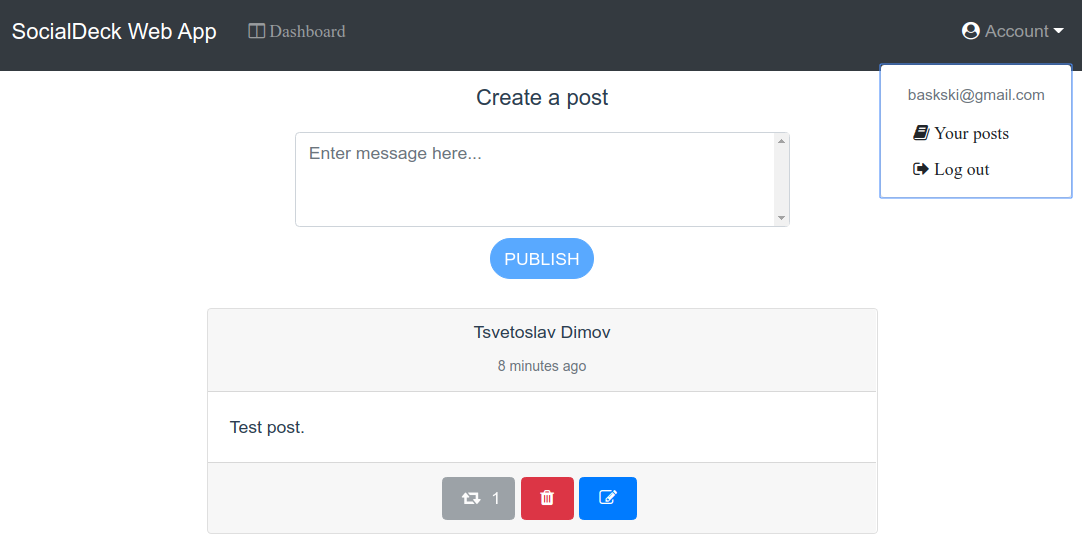
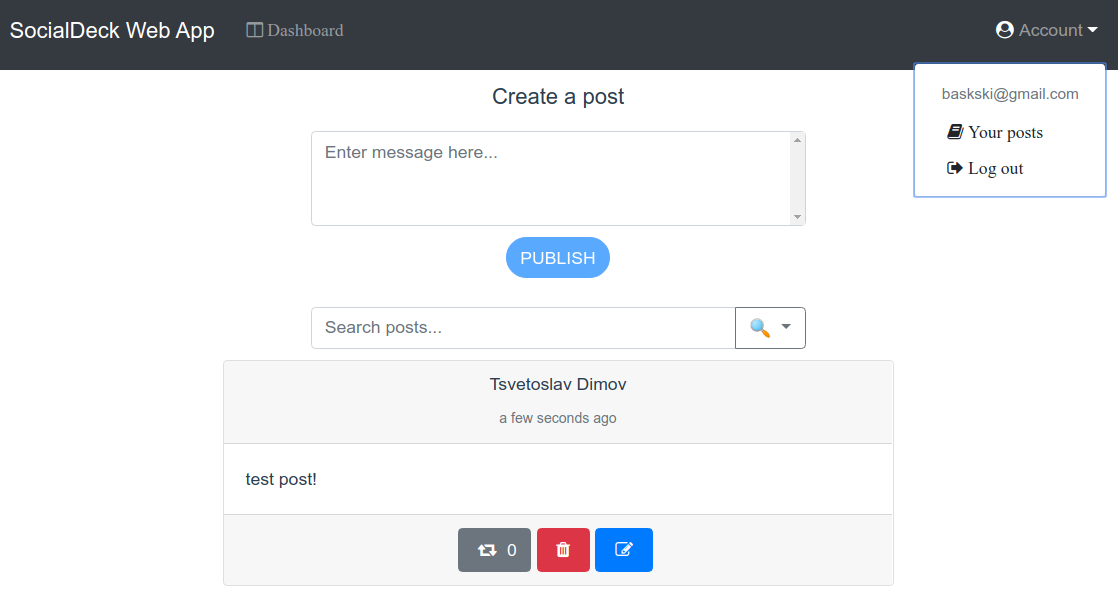
Added option to search posts by message content and name of user.

diff --git a/src/components/Dashboard.vue b/src/components/Dashboard.vue
@@ -17,11 +17,23 @@
             </b-button>
           </b-form-group>
         </div>
+        <b-input-group v-if="allPosts.length" class="mt-3" style="margin-bottom: 10px">
+          <template v-slot:append>
+            <b-dropdown variant="outline-secondary">
+              <template v-slot:button-content>
+                &#x1f50d;
+              </template>
+              <b-dropdown-item @click="searchBy='message'">message</b-dropdown-item>
+              <b-dropdown-item @click="searchBy='creatorFullName'">name</b-dropdown-item>
+            </b-dropdown>
+          </template>
+          <b-form-input v-model="searchQuery" placeholder="Search posts..."/>
+        </b-input-group>
       </b-col>
     </b-row>
     <b-row align-h="center">
       <b-col md="8" id="postsFeed">
-        <PostsFeed :posts="allPosts"/>
+        <PostsFeed :posts="filteredPosts"/>
       </b-col>
     </b-row>
   </b-container>
@@ -38,7 +50,9 @@ export default {
     return {
       createForm: {
         message: ''
-      }
+      },
+      searchQuery: '',
+      searchBy: 'message'
     }
   },
   components: {
@@ -77,7 +91,13 @@ export default {
   },
   computed: {
     ...mapState(['currentUser']),
-    ...mapGetters(['allPosts'])
+    ...mapGetters(['allPosts']),
+    filteredPosts () {
+      const allPosts = this.$store.getters.allPosts
+      return this.searchQuery
+        ? allPosts.filter(post => post[this.searchBy].toLowerCase().includes(this.searchQuery.toLocaleLowerCase()))
+        : this.$store.getters.allPosts
+    }
   }
 }
 </script>

diff --git a/src/components/Auth.vue b/src/components/Auth.vue
@@ -8,6 +8,7 @@
 <script>
 import LogIn from '@/components/LogIn'
 import SignUp from '@/components/SignUp'
+import me from '@/graphql/User/me.graphql'
 
 export default {
   name: 'Auth',
@@ -24,6 +25,13 @@ export default {
     toggleForm (bool) {
       this.showSignUpForm = bool
     }
+  },
+  created: function () {
+    this.$apollo.query({
+      query: me,
+      fetchPolicy: 'no-cache'
+    })
+      .catch(() => {})
   }
 }
 </script>
